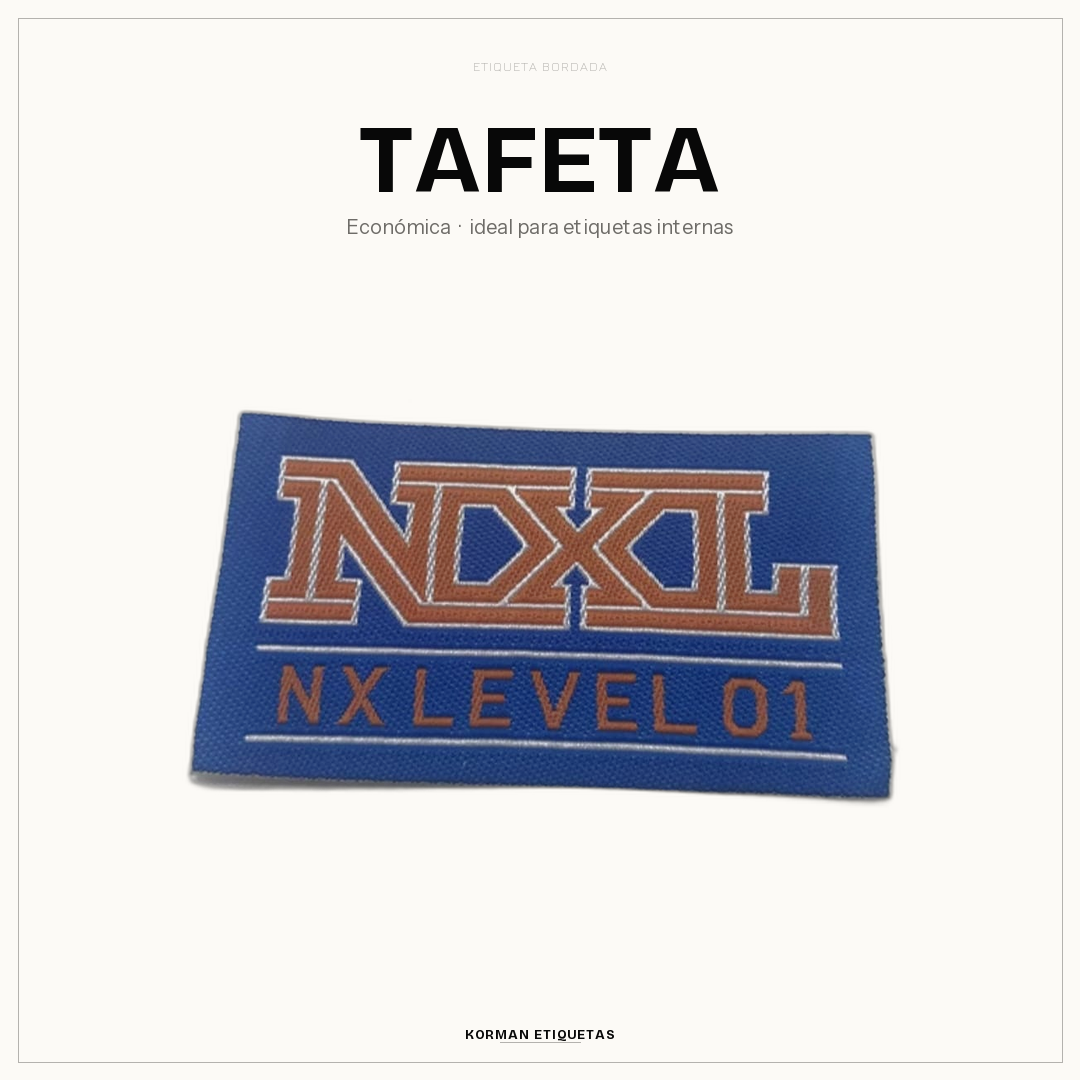
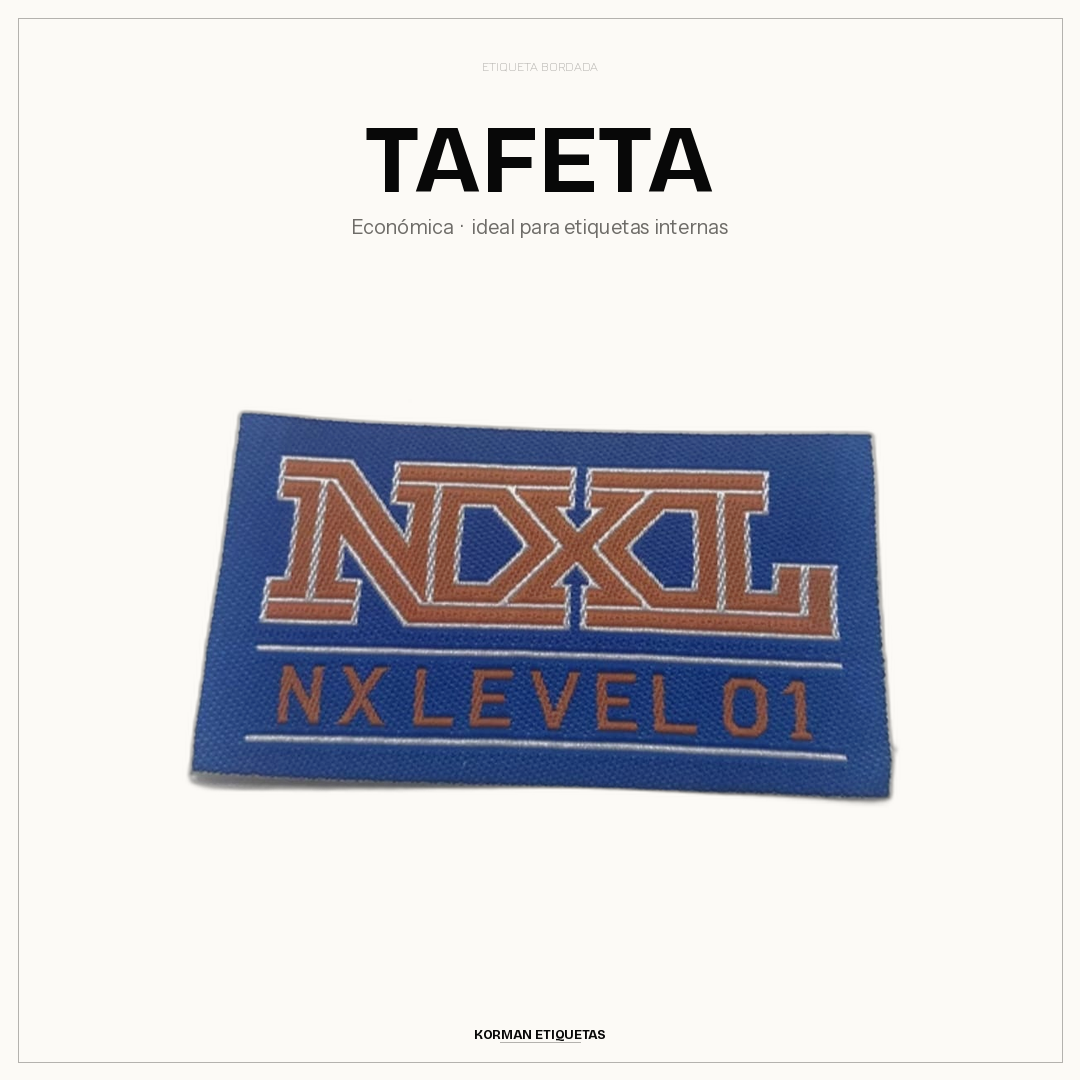
Fix text rendering: use native PIL draw.text instead of char-by-char
Character-by-character drawing accumulated measurement errors causing
words to appear separated. Native PIL rendering keeps letters properly joined.

Claude-Session: https://claude.ai/code/session_017RDuaEkxS43SZ1xs4UNenw

Changed region(s): [[0.3361, 0.1222, 0.6722, 0.2139], [0.4278, 0.9472, 0.5806, 0.9778]]

diff --git a/generate_posts_v5.py b/generate_posts_v5.py
@@ -29,27 +29,17 @@ def fnt(name, size):
         return ImageFont.load_default()
 
 
-def tw(draw, text, font, tracking=0):
-    total = 0
-    for i, ch in enumerate(text):
-        b = draw.textbbox((0, 0), ch, font=font)
-        total += (b[2] - b[0])
-        if i < len(text) - 1:
-            total += tracking
-    return total
+def tw(draw, text, font):
+    b = draw.textbbox((0, 0), text, font=font)
+    return b[2] - b[0]
 
 
-def draw_t(draw, x, y, text, font, fill, tracking=0):
-    cursor = x
-    for ch in text:
-        draw.text((cursor, y), ch, font=font, fill=fill)
-        b = draw.textbbox((0, 0), ch, font=font)
-        cursor += (b[2] - b[0]) + tracking
-    return cursor
+def draw_t(draw, x, y, text, font, fill):
+    draw.text((x, y), text, font=font, fill=fill)
 
 
-def cx_t(draw, text, font, tracking=0):
-    return (W - tw(draw, text, font, tracking)) // 2
+def cx_t(draw, text, font):
+    return (W - tw(draw, text, font)) // 2
 
 
 def paste_label(img, png_name, cx, cy, max_w, max_h):
@@ -94,23 +84,23 @@ def make_post(filename, tipo, titulo, descripcion, png_label):
     # ── TIPO — texto pequeño arriba centrado ──────────────────────────────────
     f_tipo = fnt("Jura-Light.ttf", 13)
     tipo_y = 58
-    tipo_w = tw(draw, tipo, f_tipo, 1)
-    draw_t(draw, (W - tipo_w) // 2, tipo_y, tipo, f_tipo, GRAY_LT, 1)
+    tipo_w = tw(draw, tipo, f_tipo)
+    draw_t(draw, (W - tipo_w) // 2, tipo_y, tipo, f_tipo, GRAY_LT)
 
     # ── TÍTULO — grande, negro, tracking suave ────────────────────────────────
     f_title = fnt("BricolageGrotesque-Bold.ttf", 96)
-    while tw(draw, titulo, f_title, 0) > W - 120:
+    while tw(draw, titulo, f_title) > W - 120:
         sz = f_title.size - 4
         if sz < 48: break
         f_title = fnt("BricolageGrotesque-Bold.ttf", sz)
 
     titulo_y = tipo_y + 44
-    draw_t(draw, cx_t(draw, titulo, f_title, 0), titulo_y, titulo, f_title, BLACK, 0)
+    draw_t(draw, cx_t(draw, titulo, f_title), titulo_y, titulo, f_title, BLACK)
 
     # ── DESCRIPCIÓN — debajo del título, gris ────────────────────────────────
     f_desc = fnt("InstrumentSans-Regular.ttf", 20)
     desc_y = titulo_y + f_title.size + 16
-    draw_t(draw, cx_t(draw, descripcion, f_desc, 0), desc_y, descripcion, f_desc, GRAY_MD, 0)
+    draw_t(draw, cx_t(draw, descripcion, f_desc), desc_y, descripcion, f_desc, GRAY_MD)
 
     # ── ETIQUETA — protagonista, ocupa la mayor parte del post ───────────────
     # Zona disponible: desde desc_y + margen hasta arriba del brand mark
@@ -127,8 +117,8 @@ def make_post(filename, tipo, titulo, descripcion, png_label):
     # ── BRAND MARK — abajo centrado ───────────────────────────────────────────
     f_brand = fnt("BricolageGrotesque-Bold.ttf", 13)
     brand   = "KORMAN ETIQUETAS"
-    bw      = tw(draw, brand, f_brand, 1)
-    draw_t(draw, (W - bw) // 2, H - 54, brand, f_brand, BLACK, 1)
+    bw      = tw(draw, brand, f_brand)
+    draw_t(draw, (W - bw) // 2, H - 54, brand, f_brand, BLACK)
 
     # ── LÍNEA DECORATIVA FINA bajo el brand — detalle elegante ───────────────
     line_y = H - 38
